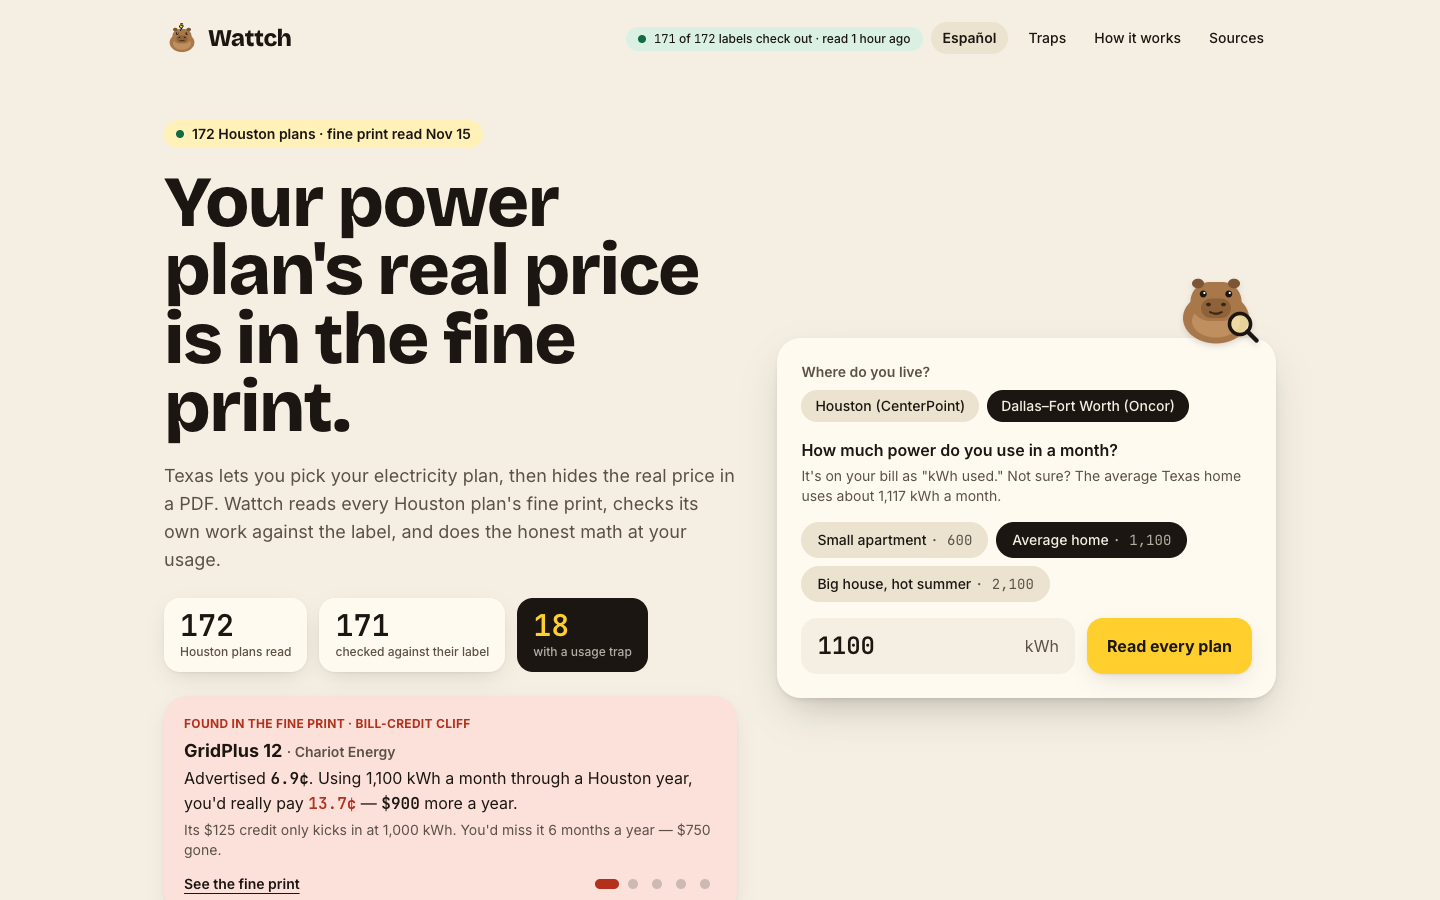
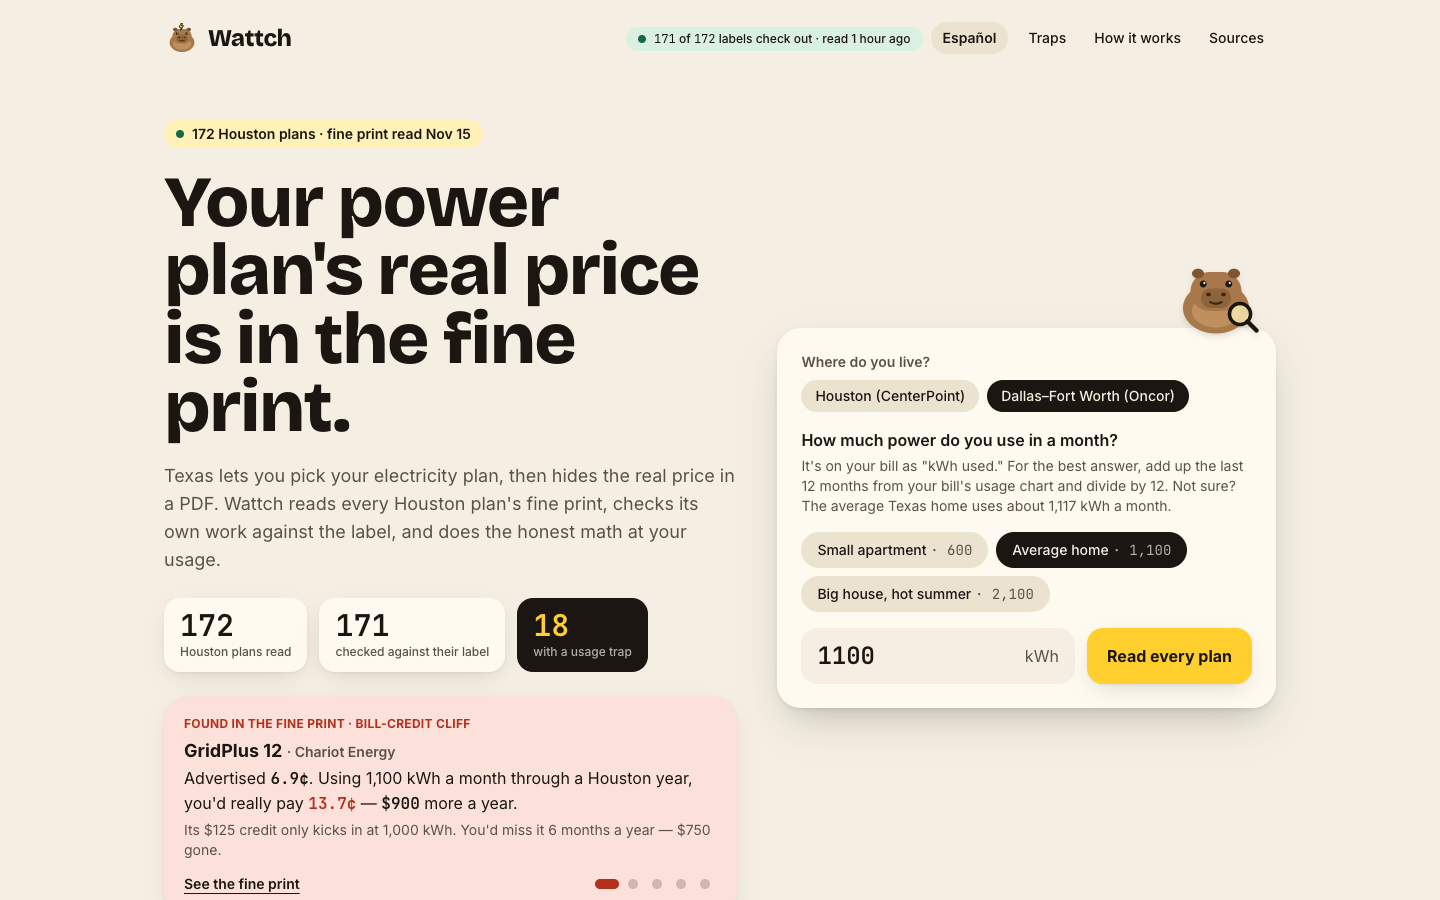
G5 usage hint: tells people to average the last 12 months from their bill's usage chart (EN + ES), keeps the EIA Texas average computed from data/seasons.json. Houston-only number NOT shown: ERCOT profile magnitude unverified (logged in SOURCES.md). 149 tests

Changed region(s): [[0.5625, 0.28, 0.875, 0.6844], [0.5312, 0.6844, 0.875, 0.8089], [0.5625, 0.7156, 0.625, 0.7467]]

diff --git a/src/lib/i18n.ts b/src/lib/i18n.ts
@@ -40,7 +40,7 @@ const en = {
   exampleOf: (i: number, total: number) => `Example ${i} of ${total}`,
   // picker
   pickerQ: "How much power do you use in a month?",
-  pickerHint: (avg: number) => `It's on your bill as "kWh used." Not sure? The average Texas home uses about ${n(avg, "en")} kWh a month.`,
+  pickerHint: (avg: number) => `It's on your bill as "kWh used." For the best answer, add up the last 12 months from your bill's usage chart and divide by 12. Not sure? The average Texas home uses about ${n(avg, "en")} kWh a month.`,
   presets: ["Small apartment", "Average home", "Big house, hot summer"],
   readEvery: "Read every plan",
   pickerBad: "Pick a number between 100 and 5,000.",
@@ -108,7 +108,7 @@ const es: Words = {
   seeFinePrint: "Ver la letra pequeña",
   exampleOf: (i, total) => `Ejemplo ${i} de ${total}`,
   pickerQ: "¿Cuánta luz usas al mes?",
-  pickerHint: (avg) => `Aparece en tu factura como "kWh usados". ¿No sabes? Un hogar promedio en Texas usa unos ${n(avg, "es")} kWh al mes.`,
+  pickerHint: (avg) => `Aparece en tu factura como "kWh usados". Para la mejor respuesta, suma los últimos 12 meses de la gráfica de consumo de tu factura y divide entre 12. ¿No sabes? Un hogar promedio en Texas usa unos ${n(avg, "es")} kWh al mes.`,
   presets: ["Apartamento pequeño", "Casa promedio", "Casa grande, verano caluroso"],
   readEvery: "Leer todos los planes",
   pickerBad: "Escoge un número entre 100 y 5,000.",

diff --git a/PROGRESS.md b/PROGRESS.md
@@ -45,3 +45,4 @@
 - 2026-11-16 00:46 PT · G1 /how pipeline diagram · DONE (38f52ca). Pipeline.tsx (HTML boxes + SVG arrows; row ≥lg, stack on phones), pipelineCounts(area) in data.ts, one diagram per area. Houston 172→172 read→171 verified→154 ranked; Dallas 172→146→144→129. Test: stages nest, read = total − unread, Houston = 172/171/154. Steps text now mentions Dallas + its seasons. axe 0 on 15 pages. 136 tests. $0.
 - 2026-11-16 00:48 PT · G2 bill-line explainer · DONE (3ee5623). src/lib/bill/explain.ts explainBill(): sentence per billLines key + 'missed-i' for credits just missed (red box). Edge cases from real plans: delivery folded in (35975 tdu 0¢), $0 min-usage fee, 2 price blocks, time-of-day mix. Cents shown as the label prints (6.5611¢). Hand-checked vs data/text for 24328, 17330, 35975. Utility name per area (Oncor on Dallas plans). 141 tests, axe 0. $0.
 - 2026-11-16 00:50 PT · G3 npm run refresh · DONE (c15609f). Dry run (default) = $0: state CSV only, diff per area (new/gone/advertised price/moved label), writes nothing; --apply → ingest per area (sha-unchanged labels reuse old read, so AI only on new/changed), before→after counts. Ran dry run: Houston + Dallas 172/172 unchanged. Decision: dry run is the DEFAULT so nobody spends by accident. package.json: scripts only, no deps. 145 tests. $0.
+- 2026-11-16 00:51 PT · G4 one headline source · DONE (fb34619). src/lib/headline.ts; demo/home/script use it; card + wall go through the same reveal() and a test proves their default URLs give the identical answer (both areas). /demo verified live: pickRank 74, gap 378.11. 149 tests. $0.

diff --git a/BACKLOG.md b/BACKLOG.md
@@ -44,7 +44,7 @@
 - [x] /how page: one clear diagram of the pipeline (Power to Choose CSV → label → AI reads → code rebuilds 3 prices → verified/ranked) built in plain HTML/SVG, not an image — renders at 375 + 1920, numbers from data
 - [x] "Why is my bill different?" explainer on every plan page: one sentence per bill line (energy, delivery, base, credit) in plain words, generated by code from the plan's pricing — 3 plans checked by hand
 - [x] Data refresh script `npm run refresh` (ingest → check → write plans.json + a short diff report of what changed) documented in README; dry-run mode costs $0 — dry run works
-- [ ] Headline numbers in one place: src/lib/headline.ts used by home, /wall, card, demo and scripts/headline.ts (no copies) — test that they all agree
+- [x] Headline numbers in one place: src/lib/headline.ts used by home, /wall, card, demo and scripts/headline.ts (no copies) — test that they all agree
 - [ ] Usage hint: "Not sure? Most Houston homes use about N kWh" from EIA number in SOURCES, shown in the picker — sourced
 - [ ] Print-friendly plan page (@media print): label proof + bill table on one page — prints on Letter in Chrome's print preview screenshot
 - [ ] 1920 projector pass of /demo + /wall reveal: biggest numbers readable at 1920 from "the back of the room" (≥64px for the $ number) — screenshots

diff --git a/docs/SOURCES.md b/docs/SOURCES.md
@@ -27,6 +27,11 @@ Shape: Jan 1.122 · Feb 0.853 · Mar 0.673 · Apr 0.677 · May 0.891 · Jun 1.25
 → August ÷ February ≈ 1.8; January is above average (65% of Oncor's North Central homes are in the high-winter class, vs 26% of
 CenterPoint's). Same caveats as Houston.
 
+## Not used: "Most Houston homes use about N kWh" (checked Nov 16)
+Mixing ERCOT's COAST profiles by CenterPoint's home counts gives ≈ 1,335 kWh/month (NCENT/Oncor ≈ 1,355), but I have not
+confirmed that ERCOT's backcasted profile values are real per-home kWh rather than a scaled shape, so they are used for
+SHAPE only. The usage hint keeps the EIA statewide average (computed in src/lib/seasons.ts from data/seasons.json).
+
 ## Texas seasons (old model, replaced) — the numbers (EIA-861M, kWh per residential customer, 3-year average)
 Jan 1,140 · Feb 974 · Mar 825 · Apr 798 · May 992 · Jun 1,316 · Jul 1,548 · Aug 1,634 · Sep 1,378 · Oct 1,071 · Nov 821 · Dec 905
 → average 1,117 kWh/month. August ÷ April = 2.05 ("summer uses about twice what spring does").
